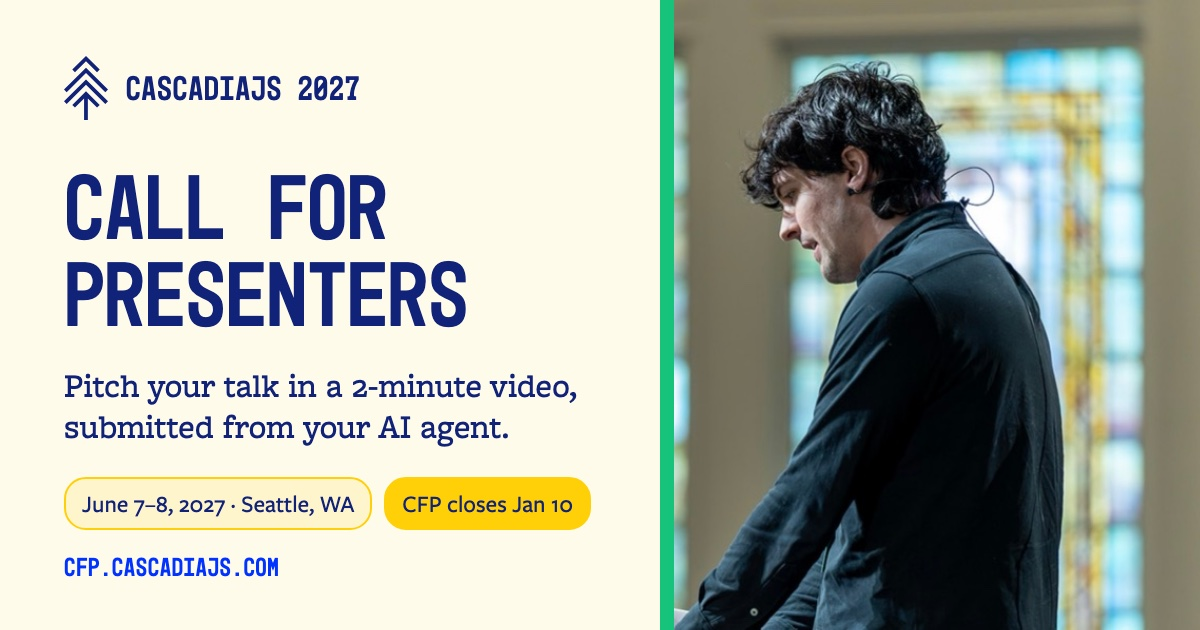
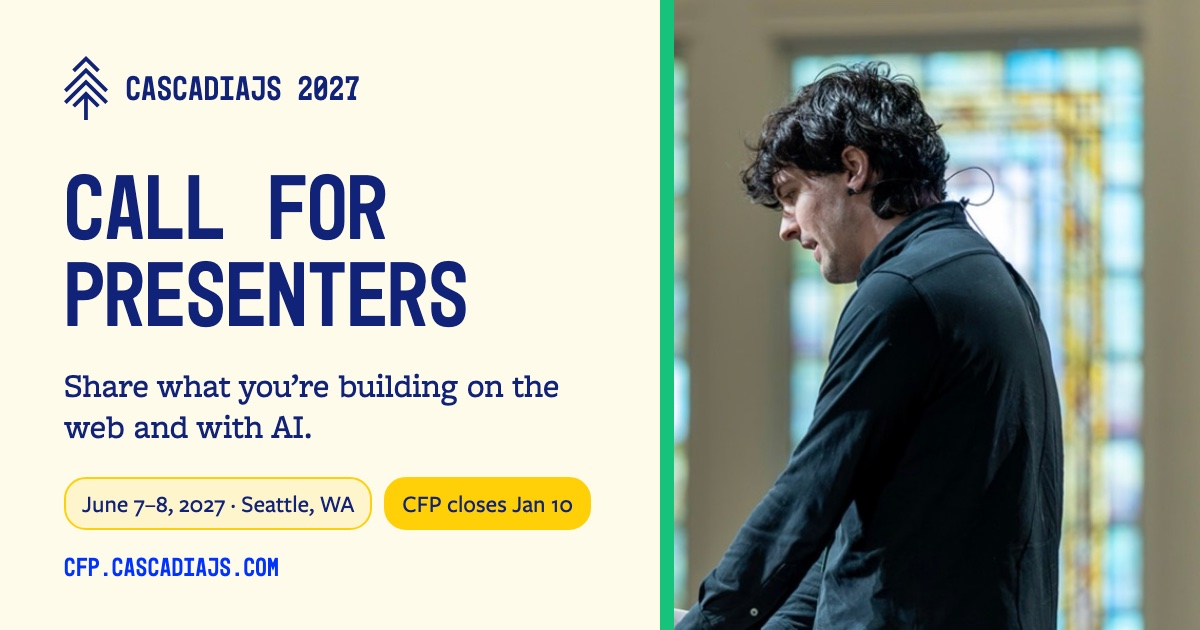
fix: drop how-to-submit wording from the sharing image
Presenters can now submit from an AI agent or on the website, so the image
and its preview description no longer describe how submission works.

Changed region(s): [[0.0308, 0.6032, 0.4933, 0.7238]]

diff --git a/public/index.html b/public/index.html
@@ -10,7 +10,7 @@
   <meta property="og:site_name" content="CascadiaJS">
   <meta property="og:url" content="https://cfp.cascadiajs.com/">
   <meta property="og:title" content="CascadiaJS 2027 Call for Presenters">
-  <meta property="og:description" content="Pitch your talk in a 2-minute video, submitted from your AI agent. CascadiaJS 2027 is June 7-8 in Seattle, WA; the CFP closes Jan 10, 2027.">
+  <meta property="og:description" content="Share what you're building on the web and with AI. CascadiaJS 2027 is June 7-8 in Seattle, WA; the CFP closes Jan 10, 2027.">
   <meta property="og:image" content="https://cfp.cascadiajs.com/images/og-image.jpg">
   <meta property="og:image:width" content="1200">
   <meta property="og:image:height" content="630">

diff --git a/design/og-image.html b/design/og-image.html
@@ -37,7 +37,7 @@
   <div class="text">
     <div class="brand"><img src="../public/images/cjs-icon-blue.svg" alt=""><span>CascadiaJS 2027</span></div>
     <h1>Call for<br>Presenters</h1>
-    <p class="sub">Pitch your talk in a 2-minute video, submitted from your AI agent.</p>
+    <p class="sub">Share what you’re building on the web and with AI.</p>
     <div class="facts">
       <span>June 7–8, 2027 · Seattle, WA</span>
       <span class="close">CFP closes Jan 10</span>
